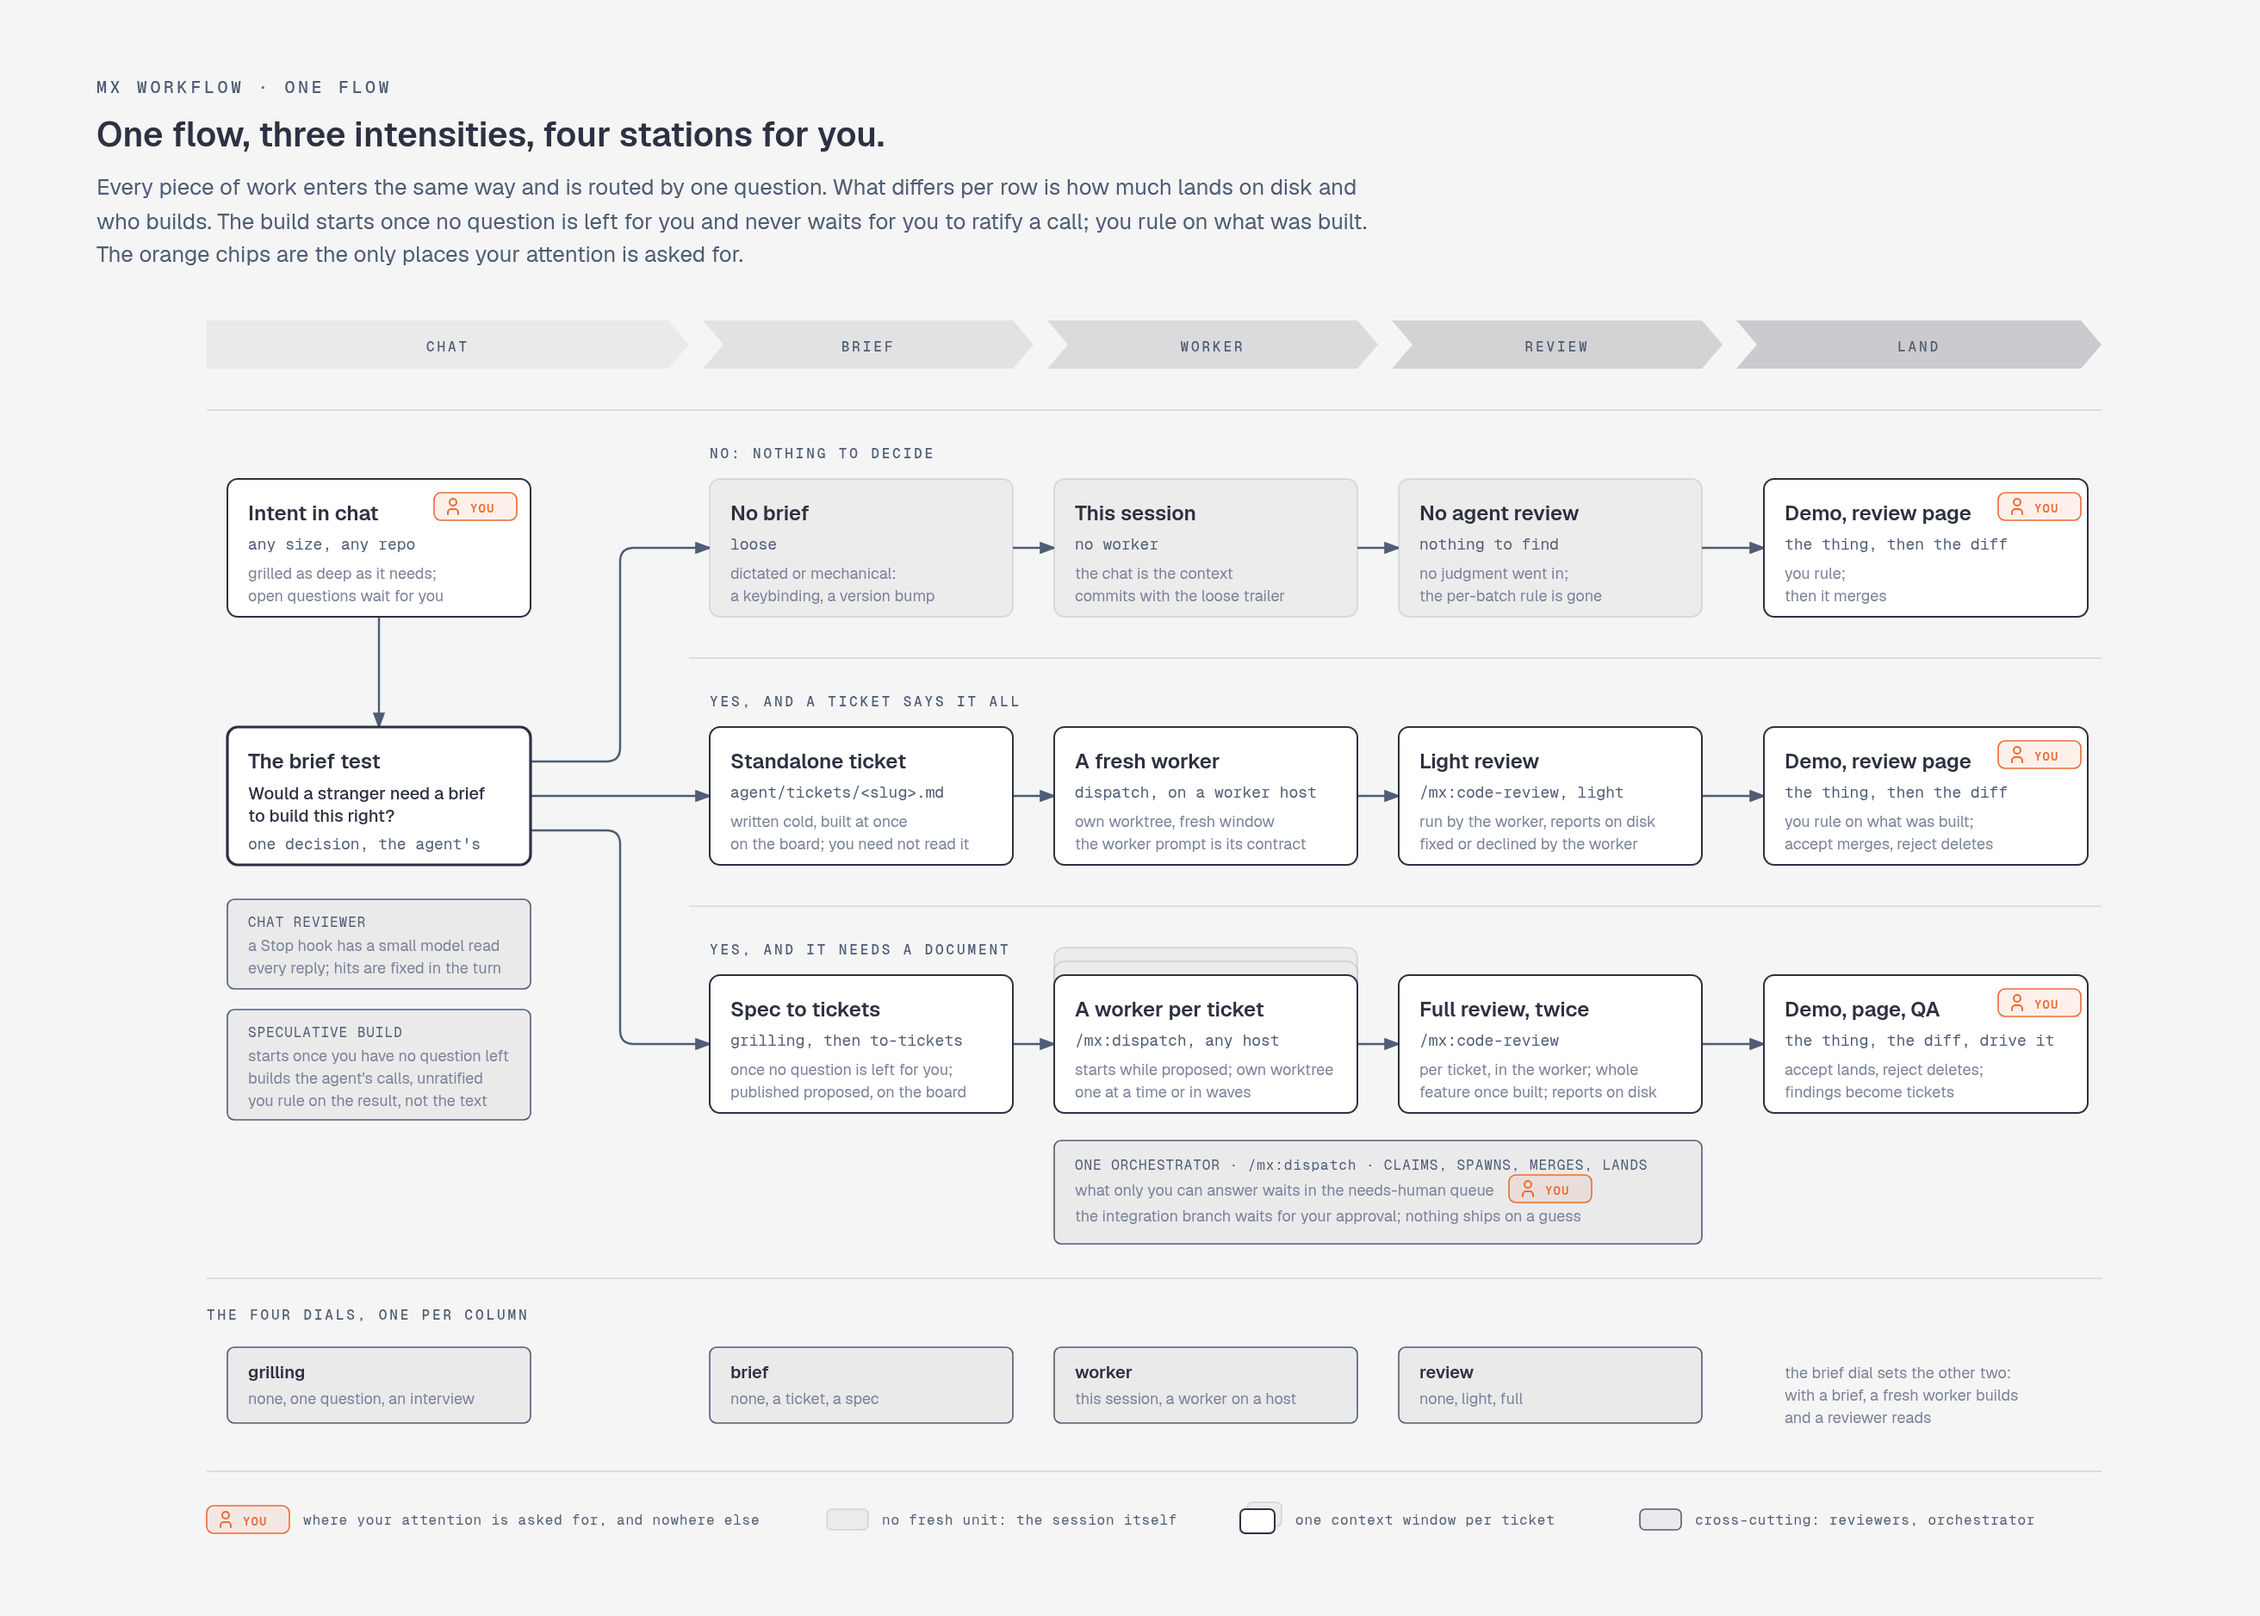
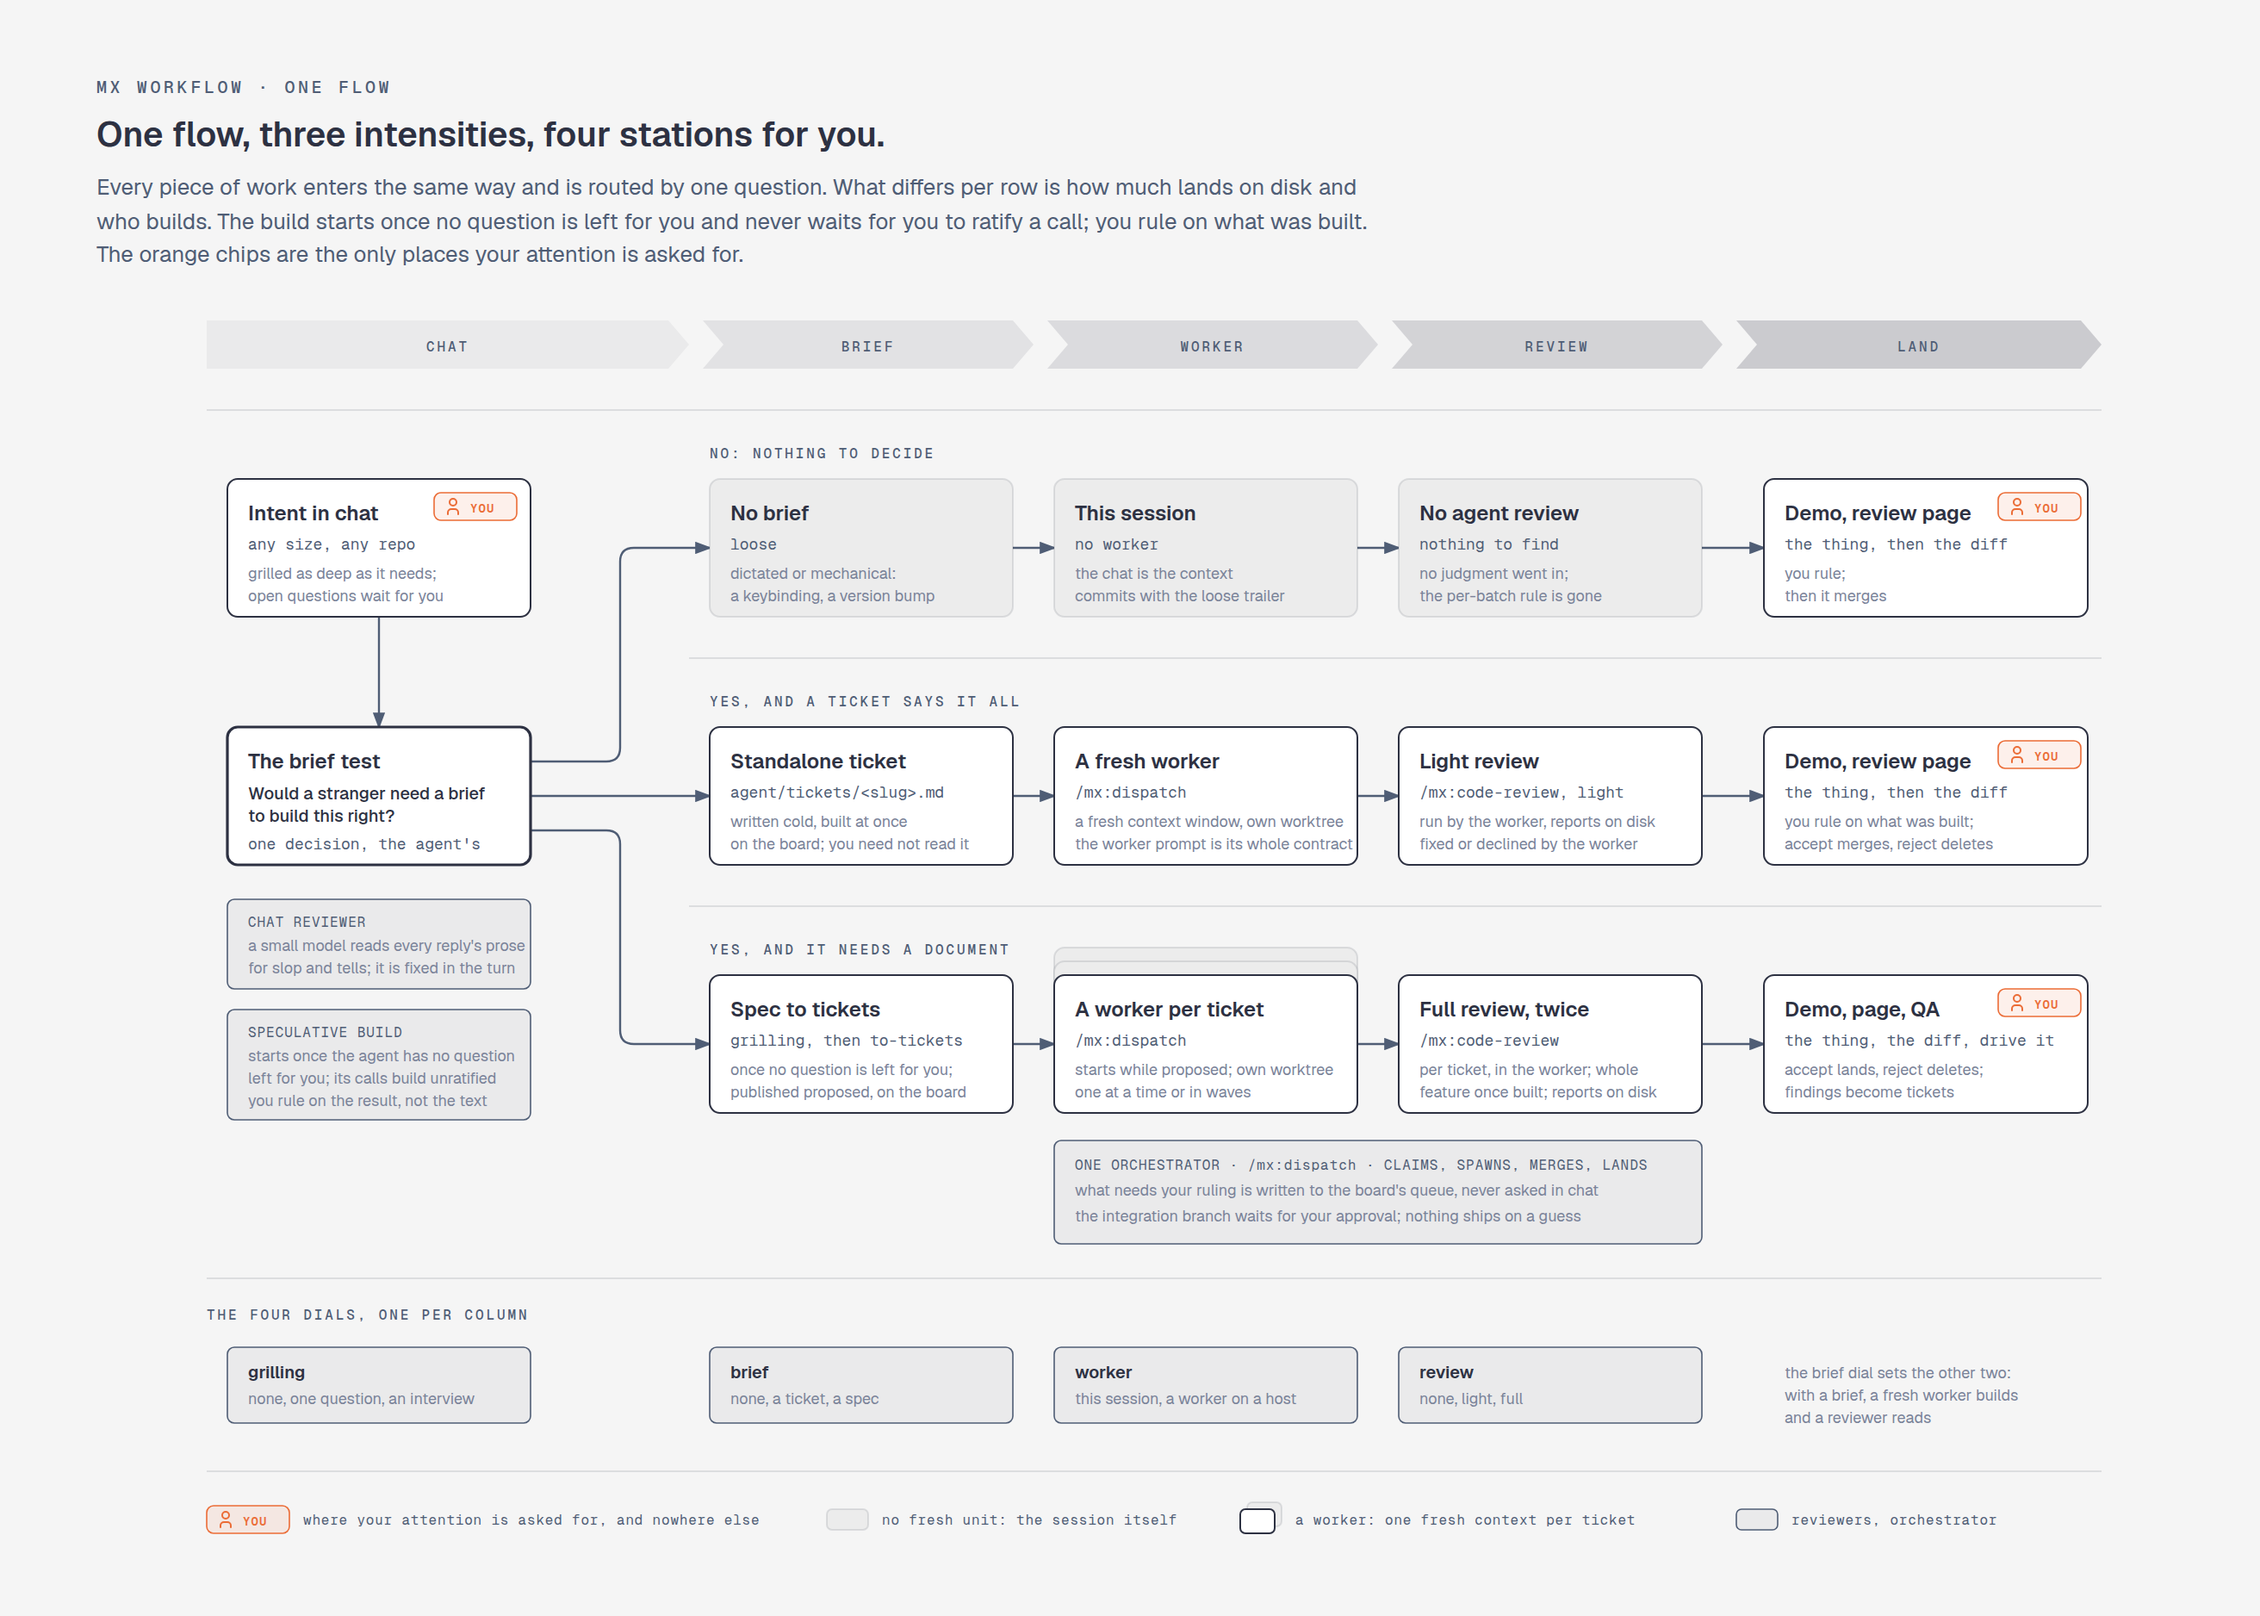
show: one-flow figure, the user's nitpicks
No host talk on the worker cards and /mx: on both; the chat reviewer
chip says it reads prose for slop and tells; speculation starts when
the agent has no question left for the user; the orchestrator bar
loses its YOU chip and says rulings go to the board's queue; the
legend says what a worker is.

Workflow-stage: loose

Claude-Session: https://claude.ai/code/session_016c969KuRj4aqF7YonMJjuS

diff --git a/agent/show/mx-readme-figures/one-flow.html b/agent/show/mx-readme-figures/one-flow.html
@@ -159,12 +159,12 @@ a call; you rule on what was built. The orange chips are the only places your at
   <text class="cmd" x="88" y="311">one decision, the agent's</text>
 
   <text class="al" x="88" y="356">CHAT REVIEWER</text>
-  <text class="note" x="88" y="370">a Stop hook has a small model read</text>
-  <text class="note" x="88" y="383">every reply; hits are fixed in the turn</text>
+  <text class="note" x="88" y="370">a small model reads every reply's prose</text>
+  <text class="note" x="88" y="383">for slop and tells; it is fixed in the turn</text>
 
   <text class="al" x="88" y="420">SPECULATIVE BUILD</text>
-  <text class="note" x="88" y="434">starts once you have no question left</text>
-  <text class="note" x="88" y="447">builds the agent's calls, unratified</text>
+  <text class="note" x="88" y="434">starts once the agent has no question</text>
+  <text class="note" x="88" y="447">left for you; its calls build unratified</text>
   <text class="note" x="88" y="460">you rule on the result, not the text</text>
 
   <!-- labels: row 1 -->
@@ -196,9 +196,9 @@ a call; you rule on what was built. The orange chips are the only places your at
   <text class="note" x="368" y="311">on the board; you need not read it</text>
 
   <text class="name" x="568" y="264">A fresh worker</text>
-  <text class="cmd" x="568" y="281">dispatch, on a worker host</text>
-  <text class="note" x="568" y="298">own worktree, fresh window</text>
-  <text class="note" x="568" y="311">the worker prompt is its contract</text>
+  <text class="cmd" x="568" y="281">/mx:dispatch</text>
+  <text class="note" x="568" y="298">a fresh context window, own worktree</text>
+  <text class="note" x="568" y="311">the worker prompt is its whole contract</text>
 
   <text class="name" x="768" y="264">Light review</text>
   <text class="cmd" x="768" y="281">/mx:code-review, light</text>
@@ -218,7 +218,7 @@ a call; you rule on what was built. The orange chips are the only places your at
   <text class="note" x="368" y="455">published proposed, on the board</text>
 
   <text class="name" x="568" y="408">A worker per ticket</text>
-  <text class="cmd" x="568" y="425">/mx:dispatch, any host</text>
+  <text class="cmd" x="568" y="425">/mx:dispatch</text>
   <text class="note" x="568" y="442">starts while proposed; own worktree</text>
   <text class="note" x="568" y="455">one at a time or in waves</text>
 
@@ -234,8 +234,7 @@ a call; you rule on what was built. The orange chips are the only places your at
   <use href="#you" x="1104" y="392"/>
 
   <text class="al" x="568" y="497">ONE ORCHESTRATOR &middot; /mx:dispatch &middot; CLAIMS, SPAWNS, MERGES, LANDS</text>
-  <text class="note" x="568" y="512">what only you can answer waits in the needs-human queue</text>
-  <use href="#you" x="820" y="500"/>
+  <text class="note" x="568" y="512">what needs your ruling is written to the board's queue, never asked in chat</text>
   <text class="note" x="568" y="527">the integration branch waits for your approval; nothing ships on a guess</text>
 
   <!-- labels: dials -->
@@ -260,9 +259,9 @@ a call; you rule on what was built. The orange chips are the only places your at
   <text class="legend-text" x="456" y="703">no fresh unit: the session itself</text>
   <rect class="card-ghost" x="668" y="690" width="20" height="14" rx="3"/>
   <rect class="card" x="664" y="694" width="20" height="14" rx="3"/>
-  <text class="legend-text" x="696" y="703">one context window per ticket</text>
-  <rect class="bar" x="896" y="694" width="24" height="12" rx="3"/>
-  <text class="legend-text" x="928" y="703">cross-cutting: reviewers, orchestrator</text>
+  <text class="legend-text" x="696" y="703">a worker: one fresh context per ticket</text>
+  <rect class="bar" x="952" y="694" width="24" height="12" rx="3"/>
+  <text class="legend-text" x="984" y="703">reviewers, orchestrator</text>
 </svg>
 <script>
 const root = document.documentElement, button = document.querySelector('.scheme');
